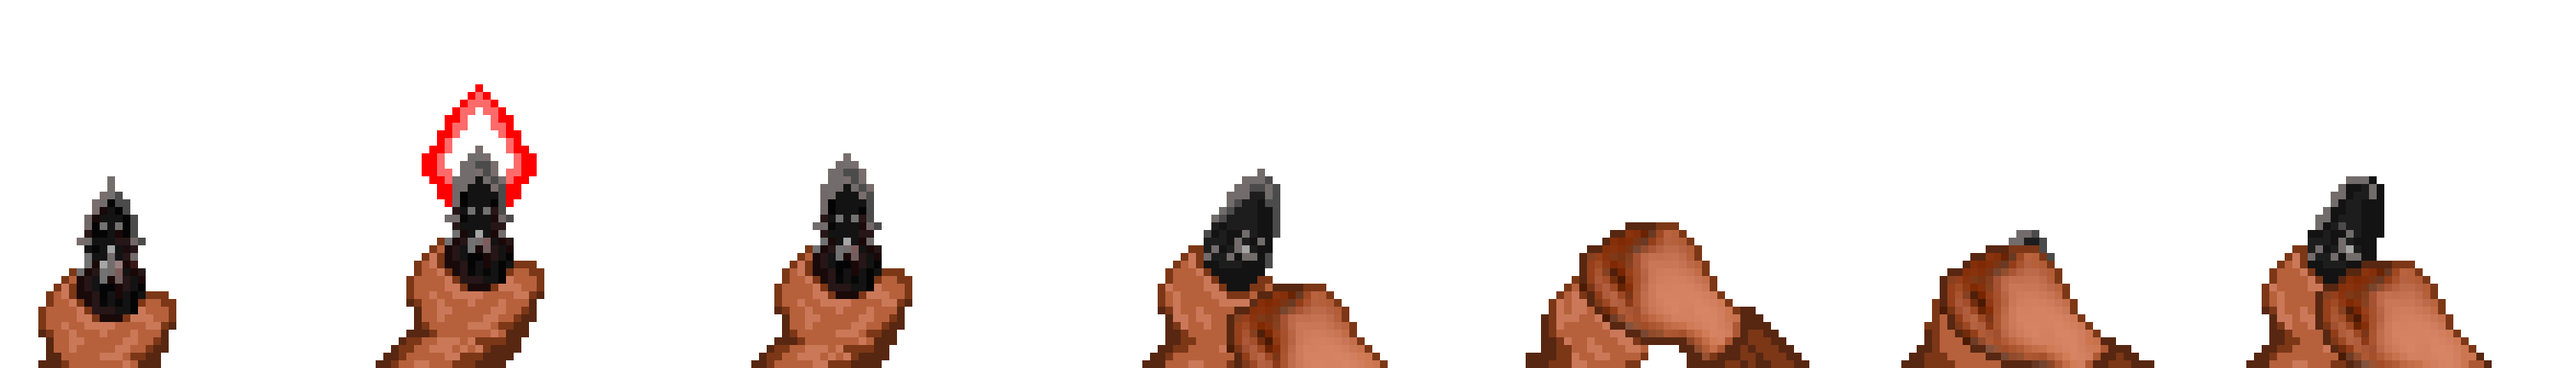
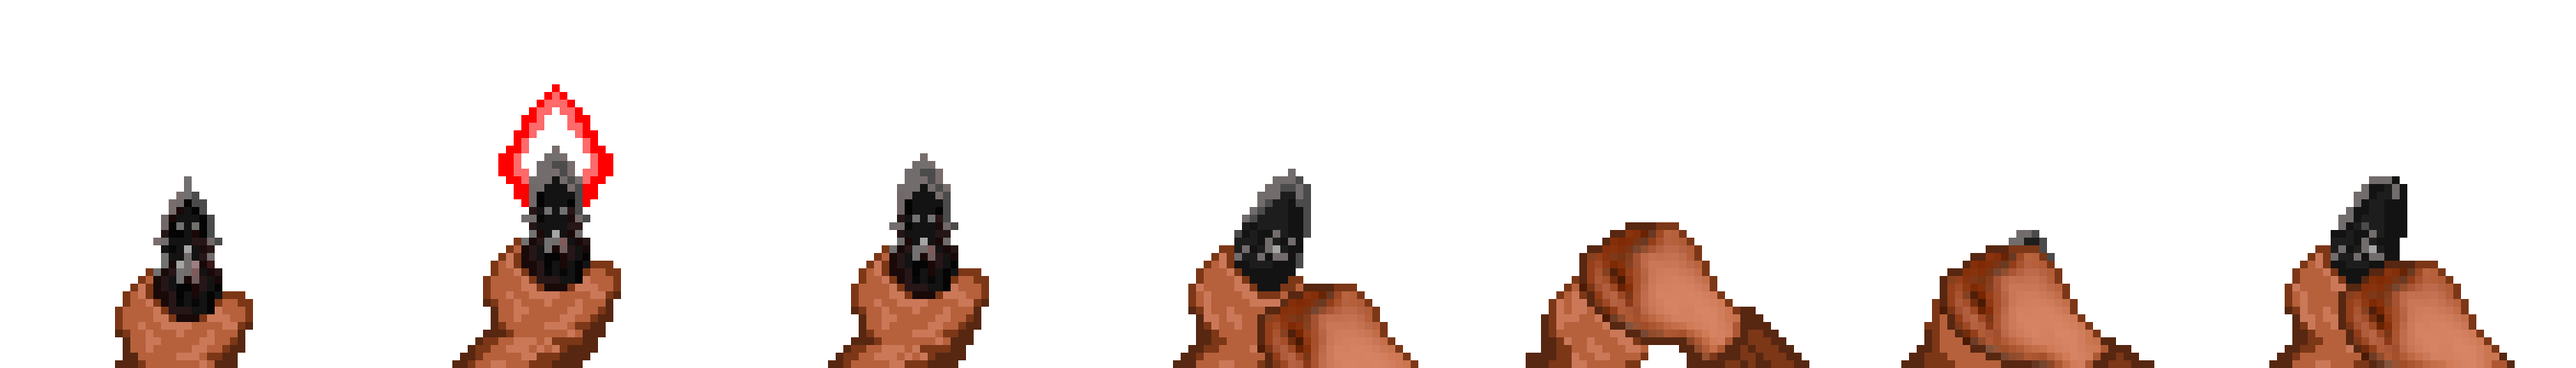
Improved Fire Skull AI (WIP). Fixed revolver art not in the bottom center during gameplay. Added 3 effect animations and druid shot art.

diff --git a/js/raycast3D/ai.js b/js/raycast3D/ai.js
@@ -89,29 +89,34 @@ function aiSeek(plRay, backwards=false,mindist=0,maxdist=250) {
     // move if not too close
     if (dist>mindist) {
         if (dist<maxdist) {
+            //var turnspeed = 0.1;
 
             // determine target direction
             var rad = plRay.p.angle(this.p);
+
             // actually face the direction of travel
-            this.aimAngleRadians = rad; 
+            //this.aimAngleRadians = rad;
+            /*if (this.aimAngleRadians>rad) this.aimAngleRadians -= turnspeed;
+            if (this.aimAngleRadians<rad) this.aimAngleRadians += turnspeed;*/
 
             validateRotation.call(this); // stay in 0..360 deg
 
             if(typeof this.prev_p == "undefined") this.prev_p = vec2(0, 0);
-            this.prev_p = vec2(this.p.x, this.p.y); // FIXME: bad for GC, we create a new obj every frame
+            this.prev_p.x = this.p.x;
+            this.prev_p.y = this.p.y;
 
             // move toward target
             // FIXME: this.p cannot be relied upon
             // it changes somewhere else even if speed is 0
             if(backwards)
             {
-                this.p.x -= this.speed * Math.cos(rad);
-                this.p.y -= this.speed * Math.sin(rad);
+                this.p.x -= this.speed * Math.cos(this.aimAngleRadians);
+                this.p.y -= this.speed * Math.sin(this.aimAngleRadians);
             }
             else
             {
-                this.p.x += this.speed * Math.cos(rad);
-                this.p.y += this.speed * Math.sin(rad);
+                this.p.x += this.speed * Math.cos(this.aimAngleRadians);
+                this.p.y += this.speed * Math.sin(this.aimAngleRadians);
             }
 
             validatePosition.call(this); // collide with walls
@@ -200,8 +205,12 @@ function aiWaypointNavigation() {
 
 }
 
-function fireSkullAI(plRay)
+function fireSkullAI(plRay,deltaTime)
 {
+    if(typeof this.aiStage == "undefined") this.aiStage = -1;
+    if(typeof this.stopTimer == "undefined") this.stopTimer = 0;
+    if(typeof this.attackTimer == "undefined") this.attackTimer = 0;
+    if(typeof this.normalTimer == "undefined") this.normalTimer = 0;
     if(typeof this.hp == "undefined") this.hp = 5;
 
     var dist = plRay.p.distance(this.p);
@@ -218,23 +227,42 @@ function fireSkullAI(plRay)
         if(dist > 30)
         {
             this.speed = 0.15;
+            this.stopTimer = this.attackTimer = this.normalTimer = this.aiStage = -1;
         }
         else
         {
-            //WIP!!!
-            //this.speed = 0; //stop for a moment
-            //this.speed = 0.5; //go for attack
-            //this.speed = 0.15; //get normal for some time
-
-            this.speed = 0.5;
-
-            if(dist < 5)
+            if(this.aiStage <= -1 && this.stopTimer <= 0)
             {
-                playerHealth -= 1;
+                this.stopTimer = 1000;
+                this.aiStage = 0;
+            }
+            else if(this.aiStage == 0 && this.attackTimer <= 0)
+            {
+                this.attackTimer = 500;
+                this.aiStage = 1;
+            }
+            else if(this.aiStage == 1 && this.normalTimer <= 0)
+            {
+                this.normalTimer = 2500;
+                this.aiStage = 2;
+            }
+            else if(this.aiStage == 2 && this.normalTimer <= 0)
+            {
+                this.aiStage = -1;
+            }
+
+            if(this.stopTimer > 0) { this.speed = 0.0; this.stopTimer -= deltaTime; }
+            else if(this.attackTimer > 0) { this.speed = 0.9; this.attackTimer -= deltaTime; }
+            else if(this.normalTimer > 0) { this.speed = 0.3; this.normalTimer -= deltaTime; }
+
+            if(dist < 5 && attackTimer > 0)
+            {
+                playerHealth -= 20;
                 flash = flashTime;
                 flashColor = playerDamageFlashColor;
                 plRay.p.x -= Math.cos(degToRad(ray[ray.length/2].angle));
                 plRay.p.y -= Math.sin(degToRad(ray[ray.length/2].angle));
+                this.attackTimer = 0;
             }
         }
     }

diff --git a/js/raycast3D/entity.js b/js/raycast3D/entity.js
@@ -216,7 +216,7 @@ class Entity
 
     draw(renderer, plRay, circleOnly, deltaTime)
     {
-        if (this.ai && (!mapMode || debugEntities)) this.ai(plRay);
+        if (this.ai && (!mapMode || debugEntities)) this.ai(plRay, deltaTime);
         
         if(circleOnly)
         {
@@ -275,7 +275,7 @@ class Entity
                     {
                         this.damageDelay -= deltaTime;
                     }
-                    else if(this.speed > 0.3)
+                    else if(this.speed > 0.3 || this.speed == 0.0)
                     {
                         this.sprite.imageObject = entProp[this.id].attackImg;
                         imageSide = 0;

diff --git a/js/ui/mainMenuFX.js b/js/ui/mainMenuFX.js
@@ -8,7 +8,7 @@ var mainMenuFX = new function() {
     var mainMenuFXsize = 128;
     var mainMenuFXsprites = [ // can be more than one
         new ImageObject("images/smoke.png", vec2(160, 160)),
-        new ImageObject("images/fire.png", vec2(160, 160))
+        new ImageObject("images/fire_menubg.png", vec2(160, 160))
     ];
 
     this.draw = function() {
